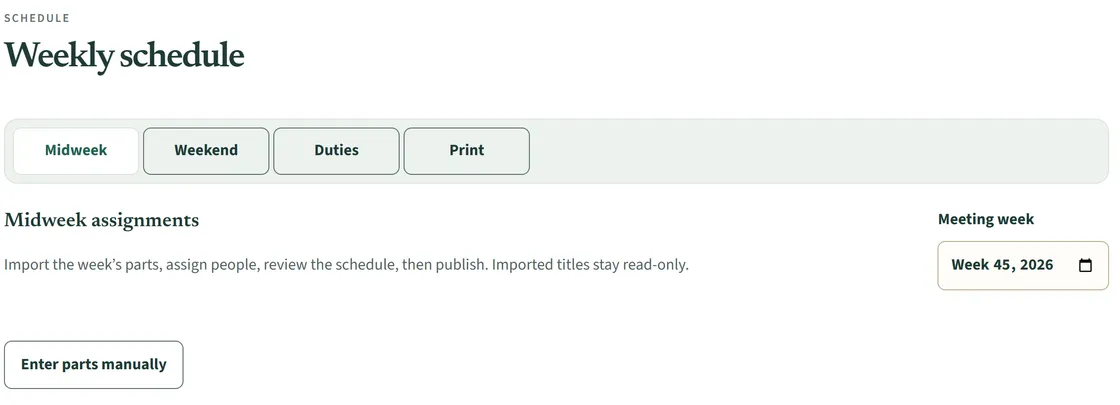
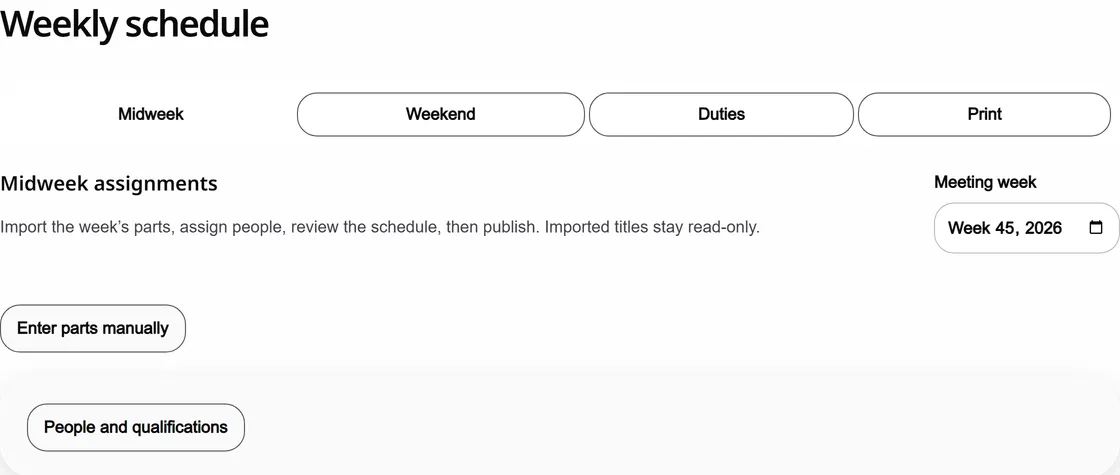
feat: monochrome website with an animated dot field
Black, grey and white tokens follow the app's Eclipse themes and use Noto
Sans only, the same file as the app redesign branch. A canvas dot field moves
behind every page: a slow wave, scroll parallax and ripples from taps, with
automatic ripples when idle so it is alive on phones. It pauses in hidden
tabs and stays still under reduced motion. Screens are recaptured from the
redesign build in Eclipse.

diff --git a/apps/site/site.js b/apps/site/site.js
@@ -1,1 +1,1 @@
-(()=>{'use strict';const root=new URL('.',document.currentScript.src),html=document.documentElement,languages=['en'];html.classList.add('js');let theme='mono-light';try{theme=localStorage.getItem('ca-site-theme')||(matchMedia('(prefers-color-scheme: dark)').matches?'mono-dark':'mono-light');}catch{}html.dataset.theme=theme==='mono-dark'?'mono-dark':'mono-light';const toggle=document.querySelector('[data-theme-toggle]');const updateLabel=()=>{toggle?.setAttribute('aria-label',html.dataset.theme==='mono-dark'?'Use light appearance':'Use dark appearance');toggle?.setAttribute('aria-pressed',String(html.dataset.theme==='mono-dark'));};updateLabel();toggle?.addEventListener('click',()=>{html.dataset.theme=html.dataset.theme==='mono-dark'?'mono-light':'mono-dark';try{localStorage.setItem('ca-site-theme',html.dataset.theme);}catch{}updateLabel();});document.querySelectorAll('[data-lang]').forEach(link=>link.addEventListener('click',()=>{try{localStorage.setItem('ca-site-language',link.dataset.lang);}catch{}}));try{const suggested=navigator.language.split('-')[0],seen=localStorage.getItem('ca-language-suggestion-seen'),chosen=localStorage.getItem('ca-site-language');if(chosen&&chosen!=='en'&&languages.includes(chosen)&&location.pathname===root.pathname){location.replace(new URL(chosen+'/',root));return;}if(!seen&&!chosen&&suggested!==html.lang&&languages.includes(suggested)){const banner=document.createElement('aside');banner.className='wrap browser-language';const text=document.createElement('span');text.textContent='Would you prefer this website in your browser’s language?';const link=document.createElement('a');link.className='button';link.href=new URL(suggested==='en'?'':suggested+'/',root);link.textContent=document.querySelector('[data-lang="'+suggested+'"]')?.textContent||suggested;link.addEventListener('click',()=>localStorage.setItem('ca-site-language',suggested));const close=document.createElement('button');close.type='button';close.textContent='Dismiss';close.addEventListener('click',()=>banner.remove());banner.append(text,link,close);document.querySelector('.site-header')?.after(banner);localStorage.setItem('ca-language-suggestion-seen','true');}}catch{}const menu=document.querySelector('.mobile-menu-toggle'),nav=document.querySelector('#site-navigation');const closeMenu=()=>{menu?.setAttribute('aria-expanded','false');nav?.classList.remove('is-open');};menu?.addEventListener('click',()=>{const open=menu.getAttribute('aria-expanded')!=='true';menu.setAttribute('aria-expanded',String(open));nav.classList.toggle('is-open',open);if(open)nav.querySelector('a')?.focus();});document.addEventListener('keydown',event=>{if(menu?.getAttribute('aria-expanded')!=='true')return;if(event.key==='Escape'){closeMenu();menu.focus();}if(event.key==='Tab'){const items=[menu,...nav.querySelectorAll('a')],first=items[0],last=items.at(-1);if(event.shiftKey&&document.activeElement===first){event.preventDefault();last.focus();}else if(!event.shiftKey&&document.activeElement===last){event.preventDefault();first.focus();}}});nav?.addEventListener('click',event=>{if(event.target.closest('a'))closeMenu();});const reduced=matchMedia('(prefers-reduced-motion: reduce)').matches;if('IntersectionObserver'in window){const observer=new IntersectionObserver(entries=>entries.forEach(entry=>{if(entry.isIntersecting){entry.target.classList.add('revealed');observer.unobserve(entry.target);}}),{threshold:.08});document.fonts.ready.then(()=>{document.querySelectorAll('.reveal').forEach(el=>{if(el.getBoundingClientRect().top<innerHeight+120)el.classList.add('revealed');else observer.observe(el);});html.classList.add('reveal-ready');});}else document.querySelectorAll('.reveal').forEach(el=>el.classList.add('revealed'));if(!reduced&&matchMedia('(pointer:fine)').matches){const composition=document.querySelector('.device-composition');composition?.addEventListener('pointermove',event=>{const b=composition.getBoundingClientRect(),x=(event.clientX-b.left)/b.width-.5,y=(event.clientY-b.top)/b.height-.5;composition.style.transform='rotateY('+(x*2)+'deg) rotateX('+(-y*2)+'deg)';});composition?.addEventListener('pointerleave',()=>composition.style.transform='');}const story=document.querySelector('[data-story-screen]');if(story&&'IntersectionObserver'in window){const observer=new IntersectionObserver(entries=>{for(const entry of entries)if(entry.isIntersecting){const source=entry.target.dataset.storySource;if(source)story.src=source;}},{rootMargin:'-25% 0px -40% 0px'});document.querySelectorAll('[data-story-source]').forEach(el=>observer.observe(el));}const stage=document.querySelector('.stage');if(stage){const show=id=>{stage.querySelectorAll('[data-stage-screen]').forEach(el=>el.toggleAttribute('data-active',el.dataset.stageScreen===id));stage.querySelectorAll('[data-stage-tab]').forEach(el=>el.setAttribute('aria-pressed',String(el.dataset.stageTab===id)));};stage.querySelectorAll('[data-stage-tab]').forEach(el=>el.addEventListener('click',()=>show(el.dataset.stageTab)));if('IntersectionObserver'in window){const steps=new IntersectionObserver(entries=>{for(const entry of entries)if(entry.isIntersecting)show(entry.target.dataset.stageStep);},{rootMargin:'-45% 0px -45% 0px'});document.querySelectorAll('[data-stage-step]').forEach(el=>steps.observe(el));}}document.querySelector('form[data-contact]')?.addEventListener('submit',event=>{event.preventDefault();const data=new FormData(event.currentTarget),subject=String(data.get('subject')||'Congregation Assistant enquiry'),body=String(data.get('body')||'');location.href='mailto:'+event.currentTarget.dataset.email+'?subject='+encodeURIComponent(subject)+'&body='+encodeURIComponent(body);});})();
+(()=>{'use strict';const root=new URL('.',document.currentScript.src),html=document.documentElement,languages=['en'];html.classList.add('js');let theme='mono-light';try{theme=localStorage.getItem('ca-site-theme')||(matchMedia('(prefers-color-scheme: dark)').matches?'mono-dark':'mono-light');}catch{}html.dataset.theme=theme==='mono-dark'?'mono-dark':'mono-light';const toggle=document.querySelector('[data-theme-toggle]');const updateLabel=()=>{toggle?.setAttribute('aria-label',html.dataset.theme==='mono-dark'?'Use light appearance':'Use dark appearance');toggle?.setAttribute('aria-pressed',String(html.dataset.theme==='mono-dark'));};updateLabel();toggle?.addEventListener('click',()=>{html.dataset.theme=html.dataset.theme==='mono-dark'?'mono-light':'mono-dark';try{localStorage.setItem('ca-site-theme',html.dataset.theme);}catch{}updateLabel();});document.querySelectorAll('[data-lang]').forEach(link=>link.addEventListener('click',()=>{try{localStorage.setItem('ca-site-language',link.dataset.lang);}catch{}}));try{const suggested=navigator.language.split('-')[0],seen=localStorage.getItem('ca-language-suggestion-seen'),chosen=localStorage.getItem('ca-site-language');if(chosen&&chosen!=='en'&&languages.includes(chosen)&&location.pathname===root.pathname){location.replace(new URL(chosen+'/',root));return;}if(!seen&&!chosen&&suggested!==html.lang&&languages.includes(suggested)){const banner=document.createElement('aside');banner.className='wrap browser-language';const text=document.createElement('span');text.textContent='Would you prefer this website in your browser’s language?';const link=document.createElement('a');link.className='button';link.href=new URL(suggested==='en'?'':suggested+'/',root);link.textContent=document.querySelector('[data-lang="'+suggested+'"]')?.textContent||suggested;link.addEventListener('click',()=>localStorage.setItem('ca-site-language',suggested));const close=document.createElement('button');close.type='button';close.textContent='Dismiss';close.addEventListener('click',()=>banner.remove());banner.append(text,link,close);document.querySelector('.site-header')?.after(banner);localStorage.setItem('ca-language-suggestion-seen','true');}}catch{}const menu=document.querySelector('.mobile-menu-toggle'),nav=document.querySelector('#site-navigation');const closeMenu=()=>{menu?.setAttribute('aria-expanded','false');nav?.classList.remove('is-open');};menu?.addEventListener('click',()=>{const open=menu.getAttribute('aria-expanded')!=='true';menu.setAttribute('aria-expanded',String(open));nav.classList.toggle('is-open',open);if(open)nav.querySelector('a')?.focus();});document.addEventListener('keydown',event=>{if(menu?.getAttribute('aria-expanded')!=='true')return;if(event.key==='Escape'){closeMenu();menu.focus();}if(event.key==='Tab'){const items=[menu,...nav.querySelectorAll('a')],first=items[0],last=items.at(-1);if(event.shiftKey&&document.activeElement===first){event.preventDefault();last.focus();}else if(!event.shiftKey&&document.activeElement===last){event.preventDefault();first.focus();}}});nav?.addEventListener('click',event=>{if(event.target.closest('a'))closeMenu();});const reduced=matchMedia('(prefers-reduced-motion: reduce)').matches;if('IntersectionObserver'in window){const observer=new IntersectionObserver(entries=>entries.forEach(entry=>{if(entry.isIntersecting){entry.target.classList.add('revealed');observer.unobserve(entry.target);}}),{threshold:.08});document.fonts.ready.then(()=>{document.querySelectorAll('.reveal').forEach(el=>{if(el.getBoundingClientRect().top<innerHeight+120)el.classList.add('revealed');else observer.observe(el);});html.classList.add('reveal-ready');});}else document.querySelectorAll('.reveal').forEach(el=>el.classList.add('revealed'));if(!reduced&&matchMedia('(pointer:fine)').matches){const composition=document.querySelector('.device-composition');composition?.addEventListener('pointermove',event=>{const b=composition.getBoundingClientRect(),x=(event.clientX-b.left)/b.width-.5,y=(event.clientY-b.top)/b.height-.5;composition.style.transform='rotateY('+(x*2)+'deg) rotateX('+(-y*2)+'deg)';});composition?.addEventListener('pointerleave',()=>composition.style.transform='');}const story=document.querySelector('[data-story-screen]');if(story&&'IntersectionObserver'in window){const observer=new IntersectionObserver(entries=>{for(const entry of entries)if(entry.isIntersecting){const source=entry.target.dataset.storySource;if(source)story.src=source;}},{rootMargin:'-25% 0px -40% 0px'});document.querySelectorAll('[data-story-source]').forEach(el=>observer.observe(el));}const stage=document.querySelector('.stage');if(stage){const show=id=>{stage.querySelectorAll('[data-stage-screen]').forEach(el=>el.toggleAttribute('data-active',el.dataset.stageScreen===id));stage.querySelectorAll('[data-stage-tab]').forEach(el=>el.setAttribute('aria-pressed',String(el.dataset.stageTab===id)));};stage.querySelectorAll('[data-stage-tab]').forEach(el=>el.addEventListener('click',()=>show(el.dataset.stageTab)));if('IntersectionObserver'in window){const steps=new IntersectionObserver(entries=>{for(const entry of entries)if(entry.isIntersecting)show(entry.target.dataset.stageStep);},{rootMargin:'-45% 0px -45% 0px'});document.querySelectorAll('[data-stage-step]').forEach(el=>steps.observe(el));}}const field=document.createElement('canvas'),pen=field.getContext&&field.getContext('2d');if(pen){field.className='field-canvas';field.setAttribute('aria-hidden','true');document.body.prepend(field);let w=0,h=0,gap=24,rgb='10,10,10',ripples=[],pointer=null,lastTouch=-1e4,lastAuto=0,frame=0;const start=performance.now(),still=reduced;const colour=()=>{rgb=getComputedStyle(html).getPropertyValue('--dot').trim()||rgb;};const size=()=>{const ratio=Math.min(devicePixelRatio||1,2);w=innerWidth;h=innerHeight;field.width=Math.round(w*ratio);field.height=Math.round(h*ratio);pen.setTransform(ratio,0,0,ratio,0,0);gap=w<600?20:26;};const paint=now=>{const t=still?4:(now-start)/1000,shift=scrollY*.3,offset=-(shift%gap),buckets=Array.from({length:12},()=>new Path2D());pen.clearRect(0,0,w,h);if(!still){if(now-lastTouch>6000&&now-lastAuto>3200){lastAuto=now;ripples.push({x:Math.random()*w,y:Math.random()*h*.8,s:now});}ripples=ripples.filter(r=>now-r.s<2600).slice(-6);}for(let y=offset+gap/2;y<h+gap;y+=gap){const world=y+shift;for(let x=gap/2;x<w;x+=gap){let n=(Math.sin(x*.011+t*.5)+Math.sin(world*.013-t*.4)+Math.sin((x-world)*.007+t*.3)+3)/6;n=n*n*n;let lift=0;for(const r of ripples){const age=(now-r.s)/1000,d=Math.hypot(x-r.x,y-r.y)-age*260;lift+=Math.exp(-(d*d)/1300)*(1-age/2.6);}if(pointer){const dx=x-pointer.x,dy=y-pointer.y;lift+=Math.exp(-(dx*dx+dy*dy)/24000)*.7;}const level=Math.min(11,Math.round((n*.7+lift*.9)*11)),radius=.7+n*1.5+lift*2;buckets[level].moveTo(x+radius,y);buckets[level].arc(x,y,radius,0,6.2832);}}buckets.forEach((path,i)=>{pen.fillStyle='rgba('+rgb+','+(.07+i*.034).toFixed(3)+')';pen.fill(path);});};const loop=now=>{paint(now);frame=document.hidden?0:requestAnimationFrame(loop);};colour();size();addEventListener('resize',()=>{size();if(still)paint(0);},{passive:true});new MutationObserver(()=>{colour();if(still)paint(0);}).observe(html,{attributes:true,attributeFilter:['data-theme']});if(still)paint(0);else{addEventListener('pointerdown',event=>{lastTouch=performance.now();ripples.push({x:event.clientX,y:event.clientY,s:lastTouch});},{passive:true});addEventListener('pointermove',event=>{if(event.pointerType==='mouse')pointer={x:event.clientX,y:event.clientY};},{passive:true});document.addEventListener('pointerleave',()=>{pointer=null;});document.addEventListener('visibilitychange',()=>{if(!document.hidden&&!frame)frame=requestAnimationFrame(loop);});frame=requestAnimationFrame(loop);}}document.querySelector('form[data-contact]')?.addEventListener('submit',event=>{event.preventDefault();const data=new FormData(event.currentTarget),subject=String(data.get('subject')||'Congregation Assistant enquiry'),body=String(data.get('body')||'');location.href='mailto:'+event.currentTarget.dataset.email+'?subject='+encodeURIComponent(subject)+'&body='+encodeURIComponent(body);});})();

diff --git a/apps/site/site.css b/apps/site/site.css
@@ -1,9 +1,10 @@
-/* Public website. Shares the V4 app's visual language: paper (light) and forest (dark) theme tokens,
-   Newsreader display, Source Sans 3 text, forest accent, quiet panels. The data-theme names
+/* Public website. Monochrome: the app's Eclipse pair (black, greys, white) with Noto Sans, the app's
+   one typeface. A canvas dot field (site.js) moves behind the page. The data-theme names
    mono-light / mono-dark are kept for the site's toggle and stored preference. */
-:root,[data-theme=mono-light]{color-scheme:light;--paper:#f5f6f3;--panel:#fff;--soft:#edf2ef;--ink:#203b36;--muted:#50635e;--line:#dce4df;--accent:#226353;--on-accent:#fff;--field:#226353;--on-field:#fff;--on-field-muted:#d7e8e0;--shadow-float:0 24px 60px #0f2a2333}
-[data-theme=mono-dark]{color-scheme:dark;--paper:#13221f;--panel:#1a2d28;--soft:#1a2d28;--ink:#eef5ef;--muted:#c2d4cb;--line:#365347;--accent:#a4dcc0;--on-accent:#13221f;--field:#243c34;--on-field:#eef5ef;--on-field-muted:#c2d4cb;--shadow-float:0 24px 60px #0008}
-:root{--site-display:'Newsreader','Noto Serif',Georgia,serif;--site-body:'Source Sans 3','Noto Sans',system-ui,sans-serif;--radius-s:8px;--radius-l:18px;--margin:max(24px,calc((100vw - 1240px)/2));--ease:cubic-bezier(.2,.7,.2,1);--step-display:clamp(2.125rem,4.2vw,4.5rem);--step-h2:clamp(2.125rem,3.2vw,3.125rem);--step-h3:clamp(1.375rem,1.8vw,1.75rem);--step-body:1.0625rem;--step-small:.875rem}
+@font-face{font-family:'Noto Sans';src:url('assets/fonts/noto-sans-latin-wght-normal.woff2') format('woff2');font-weight:100 900;font-display:swap;unicode-range:U+0000-00FF,U+0131,U+0152-0153,U+02BB-02BC,U+02C6,U+02DA,U+02DC,U+0304,U+0308,U+0329,U+2000-206F,U+2074,U+20AC,U+2122,U+2191,U+2193,U+2212,U+2215,U+FEFF,U+FFFD}
+:root,[data-theme=mono-light]{color-scheme:light;--paper:#fafafa;--panel:#fff;--soft:#f0f0f0;--ink:#0a0a0a;--muted:#595959;--line:#e3e3e3;--accent:#0a0a0a;--on-accent:#fafafa;--field:#0a0a0a;--on-field:#fafafa;--on-field-muted:#b3b3b3;--dot:10,10,10;--shadow-float:0 24px 60px #0000002e}
+[data-theme=mono-dark]{color-scheme:dark;--paper:#0a0a0a;--panel:#161616;--soft:#141414;--ink:#f5f5f5;--muted:#a6a6a6;--line:#2b2b2b;--accent:#f5f5f5;--on-accent:#0a0a0a;--field:#1a1a1a;--on-field:#f5f5f5;--on-field-muted:#a6a6a6;--dot:245,245,245;--shadow-float:0 24px 60px #000a}
+:root{--site-display:'Noto Sans',system-ui,sans-serif;--site-body:'Noto Sans',system-ui,sans-serif;--radius-s:12px;--radius-l:28px;--radius-pill:999px;--margin:max(24px,calc((100vw - 1240px)/2));--ease:cubic-bezier(.2,.7,.2,1);--step-display:clamp(2.125rem,4.2vw,4.5rem);--step-h2:clamp(2rem,3.2vw,3rem);--step-h3:clamp(1.25rem,1.7vw,1.625rem);--step-body:1.0625rem;--step-small:.875rem}
 
 *{box-sizing:border-box}
 html{scroll-behavior:smooth;-webkit-text-size-adjust:100%}
@@ -14,10 +15,10 @@ button,input,textarea{font:inherit;color:inherit}
 :focus-visible{outline:3px solid var(--accent);outline-offset:3px}
 svg{width:20px;height:20px;flex:none}
 img{display:block;max-width:100%;height:auto}
-h1,h2,h3{font-family:var(--site-display);font-weight:600;line-height:1.05;letter-spacing:-.02em;text-wrap:balance;margin:0 0 24px;overflow-wrap:anywhere}
+h1,h2,h3{font-family:var(--site-display);font-weight:650;line-height:1.04;letter-spacing:-.035em;text-wrap:balance;margin:0 0 24px;overflow-wrap:anywhere}
 h1{font-size:var(--step-display)}
 h2{font-size:var(--step-h2)}
-h3{font-size:var(--step-h3);line-height:1.15}
+h3{font-size:var(--step-h3);line-height:1.2;letter-spacing:-.02em}
 p{margin:0 0 16px;text-wrap:pretty;overflow-wrap:anywhere}
 ul,ol{padding-inline-start:24px}
 li{margin-block:8px}
@@ -27,19 +28,21 @@ input,textarea{width:100%;min-height:48px;padding:12px 14px;font-size:1rem;backg
 textarea{min-height:144px}
 .wrap{width:100%;max-width:calc(1240px + 48px);margin-inline:auto;padding-inline:24px;min-width:0}
 
-/* Buttons: the app's shape and shades. */
-button,.button{display:inline-flex;align-items:center;justify-content:center;gap:10px;min-height:48px;min-width:44px;padding:12px 22px;border:1px solid var(--line);border-radius:var(--radius-s);background:var(--panel);color:var(--ink);font-weight:600;text-decoration:none;cursor:pointer;touch-action:manipulation;transition:transform .15s var(--ease),background-color .2s,border-color .2s}
+/* Buttons: the app's pill shape. */
+button,.button{display:inline-flex;align-items:center;justify-content:center;gap:10px;min-height:48px;min-width:44px;padding:12px 24px;border:1px solid var(--line);border-radius:var(--radius-pill);background:var(--panel);color:var(--ink);font-weight:600;text-decoration:none;cursor:pointer;touch-action:manipulation;transition:transform .15s var(--ease),background-color .2s,border-color .2s}
 .button.primary,.primary{background:var(--accent);border-color:var(--accent);color:var(--on-accent)}
-@media(hover:hover){.button:hover,button:hover{border-color:var(--ink);text-decoration:none}.button.primary:hover{border-color:var(--ink);background:color-mix(in srgb,var(--accent) 88%,var(--ink))}}
+@media(hover:hover){.button:hover,button:hover{border-color:var(--ink);text-decoration:none}.button.primary:hover{background:color-mix(in srgb,var(--accent) 84%,var(--paper))}}
 .button:active,button:active{transform:scale(.98)}
+.button{max-width:100%;min-width:0;text-align:center;overflow-wrap:anywhere}
 
 /* Header */
-.skip-link{position:absolute;top:-100px;left:16px;z-index:50;background:var(--panel);padding:12px 16px;border-radius:var(--radius-s)}
+.skip-link{position:absolute;top:-100px;left:16px;z-index:50;background:var(--panel);color:var(--ink);padding:12px 16px;border-radius:var(--radius-s)}
 .skip-link:focus{top:8px}
-.site-header{position:relative;z-index:20;background:var(--paper)}
+.site-header{position:relative;z-index:20}
+.field-canvas{position:fixed;inset:0;width:100%;height:100%;z-index:-1;pointer-events:none}
 .header-inner{display:flex;align-items:center;flex-wrap:wrap;gap:16px 32px;min-height:80px;padding-block:12px}
 .wordmark{display:inline-flex;align-items:center;gap:12px;min-height:44px;font-weight:650;font-size:1.0625rem;text-decoration:none;letter-spacing:-.01em}
-.wordmark svg{width:40px;height:40px;padding:8px;border-radius:12px;background:var(--accent);color:var(--on-accent)}
+.wordmark svg{width:40px;height:40px;padding:9px;border-radius:50%;background:var(--accent);color:var(--on-accent)}
 .nav{display:flex;align-items:center;flex-wrap:wrap;gap:4px 28px;margin-inline-start:auto}
 .nav>a:not(.button){display:inline-flex;align-items:center;min-height:44px;font-size:1rem;text-decoration:none}
 .nav>a:not(.button):hover{text-decoration:underline}
@@ -72,7 +75,7 @@ button,.button{display:inline-flex;align-items:center;justify-content:center;gap
 .stage-frame{position:relative;height:100%;max-height:780px;aspect-ratio:390/844;align-self:center}
 .stage-screen{position:absolute;inset:0;opacity:0;transform:scale(.985);transition:opacity .7s var(--ease),transform .9s var(--ease)}
 .stage-screen[data-active]{opacity:1;transform:none}
-.stage-screen img{width:100%;height:100%;object-fit:cover;object-position:top;border-radius:28px;background:#fff}
+.stage-screen img{width:100%;height:100%;object-fit:cover;object-position:top;border-radius:32px;background:#fff}
 .stage-tabs{display:flex;gap:8px;margin-top:24px}
 .stage-tabs button{min-height:44px;padding:8px 18px;background:transparent;border-color:transparent;color:var(--on-field);font-weight:600}
 .stage-tabs button[aria-pressed=true]{background:var(--on-field);color:var(--field)}
@@ -87,7 +90,7 @@ button,.button{display:inline-flex;align-items:center;justify-content:center;gap
 .tools{display:grid;gap:96px}
 .tool{display:grid;grid-template-columns:minmax(0,7fr) minmax(0,5fr);gap:32px 64px;align-items:center}
 .tool-picture{background:var(--soft);border-radius:var(--radius-l);padding:clamp(16px,2.4vw,32px);overflow:hidden}
-.tool-picture img{width:100%;border-radius:10px;border:1px solid var(--line)}
+.tool-picture img{width:100%;border-radius:16px}
 .tool-copy p{font-size:1.125rem;max-width:28em}
 .more-tools{list-style:none;padding:0;margin:120px 0 0;display:grid;grid-template-columns:repeat(3,minmax(0,1fr));gap:40px 48px}
 .more-tools li{margin:0}
@@ -101,7 +104,7 @@ button,.button{display:inline-flex;align-items:center;justify-content:center;gap
 .trust-answers h3{font-size:1.25rem;font-weight:650;letter-spacing:0;margin-bottom:8px}
 .trust-answers p{font-size:1.125rem;margin:0;max-width:34em}
 .pricing-layout{display:grid;grid-template-columns:minmax(0,5fr) minmax(0,7fr);gap:32px 96px;align-items:start}
-.pricing-figure .price{font:600 clamp(2rem,12vw,7rem)/1 var(--site-display);letter-spacing:-.03em;margin-bottom:24px}
+.pricing-figure .price{font:650 clamp(2rem,12vw,7rem)/1 var(--site-display);letter-spacing:-.05em;margin-bottom:24px}
 .price small{font:400 1.25rem var(--site-body);letter-spacing:0;color:var(--muted)}
 .pricing-figure p:not(.price){font-size:1.125rem;max-width:32em}
 .pricing-figure .button{margin-top:16px}
@@ -116,7 +119,7 @@ button,.button{display:inline-flex;align-items:center;justify-content:center;gap
 .closing-copy p{font-size:1.25rem;color:var(--on-field-muted);max-width:26em;margin:0}
 .signin-card{justify-self:end;width:100%;max-width:460px;background:var(--panel);color:var(--ink);border-radius:var(--radius-l);padding:40px;box-shadow:var(--shadow-float)}
 .signin-mark{display:flex;align-items:center;gap:12px;font-weight:650;margin-bottom:32px}
-.signin-logo svg{width:40px;height:40px;padding:8px;border-radius:12px;background:var(--accent);color:var(--on-accent)}
+.signin-logo svg{width:40px;height:40px;padding:9px;border-radius:50%;background:var(--accent);color:var(--on-accent)}
 .signin-card h3{margin-bottom:12px}
 .signin-card p{color:var(--muted)}
 .signin-card .button{width:100%;margin-block:16px}
@@ -141,7 +144,7 @@ button,.button{display:inline-flex;align-items:center;justify-content:center;gap
 .trust-grid{display:grid;grid-template-columns:1fr 1fr;gap:48px}
 .trust-grid h3{font:650 1.125rem/1.5 var(--site-body);letter-spacing:0;margin-bottom:8px}
 .pricing{max-width:780px}
-.price{font:600 2.5rem/1.2 var(--site-display);margin-block:16px}
+.price{font:650 2.5rem/1.2 var(--site-display);margin-block:16px}
 .faq{max-width:780px}
 .page{padding-block:clamp(56px,8vw,112px)}
 .page h1{font-size:clamp(2.5rem,5vw,4rem)}
@@ -180,7 +183,7 @@ button,.button{display:inline-flex;align-items:center;justify-content:center;gap
  .statements{padding-block:48px 24px;max-width:none}
  .statement{min-height:0;display:grid;grid-template-columns:minmax(0,320px) minmax(0,1fr);gap:24px 48px;align-items:center;padding-block:40px}
  .statement-picture{display:block;grid-row:span 2;background:var(--field);border-radius:var(--radius-l);padding:24px 24px 0;overflow:hidden;max-height:520px}
- .statement-picture img{border-radius:20px 20px 0 0}
+ .statement-picture img{border-radius:24px 24px 0 0}
  .statement h3{align-self:end;margin-bottom:0}
  .statement p{align-self:start}
  .tools-head,.trust-layout,.pricing-layout,.faq-layout,.closing-layout{grid-template-columns:minmax(0,1fr)}
@@ -201,7 +204,9 @@ button,.button{display:inline-flex;align-items:center;justify-content:center;gap
 }
 @media(max-width:599px){
  .wrap,.stage-copy{padding-inline:16px}
- .wordmark{font-size:1rem;gap:10px}
+ .wordmark{font-size:.9375rem;gap:10px}
+ .header-inner{gap:8px}
+ .mobile-menu-toggle{padding:10px 16px}
  .wordmark svg{width:36px;height:36px;padding:7px}
  .hero-copy-block{padding-block:48px 32px}
  .lead,.hero-copy,.tools-head p,.closing-copy p{font-size:1.125rem}

diff --git a/docs/V4-RELEASE.md b/docs/V4-RELEASE.md
@@ -41,3 +41,12 @@ Owner request: redesign the public landing page to match the application. Websit
 - Entrance motion only hides content that is off screen once fonts have loaded, and hiding is instant, so Axe never measures half-faded text; reduced motion shows everything.
 
 Evidence (local, Windows): initial gzip payload 98,945 bytes (limit 204,800). `site-audit.mjs` on the built tree with an `app/` stub: 224 pages, 0 failures (without the stub only the cross-tree `/app/` links fail, as before). `site-audit-browser.mjs`: 1,672 views, 0 failures. `check-marketing-site.cjs` (run from a copy with `path.sep` for Windows): PASS. `check-site-browser.cjs` Axe/overflow: 84 views, 0 failures on real routes; `data-processing/` and `cookies/` fall back to `404.html`, whose stylesheet is loaded from the absolute Pages URL and blocked by CSP on a local server (no CSS loads, old or new), so they overflow locally only. `check-claims.mjs`: PASS. Vercel guideline audit: 0 HARD.
+
+## Monochrome website — 2026-11-02
+Owner request: a minimal black/grey/white website with background animation that works on phones. Website only.
+- Tokens follow the app's Eclipse pair from branch `redesign/v4-four-themes` (four themes, Noto Sans everywhere): `#fafafa`/`#0a0a0a` grounds, grey steps, black or white accent, pill buttons, 28 px panels, Noto Sans only (`assets/fonts/noto-sans-latin-wght-normal.woff2`, the same file as that branch).
+- A fixed canvas dot field (`site.js`) runs behind every page: a slow interference wave, scroll parallax, ripples from taps/clicks, automatic ripples after six idle seconds, and a soft lift under a mouse pointer. It is capped at 2x pixel ratio, batches dots into 12 alpha paths per frame, stops when the tab is hidden, draws one still frame under reduced motion, and follows the light/dark toggle.
+- Screens in `apps/site/assets/app/` were recaptured from that branch's Pages build in the Eclipse theme (fictional demo data). The assistant crop was dropped because its layout moved. The "Themes and comfort" copy no longer claims nine themes.
+- Initial gzip payload: 49,064 bytes (was 98,945), because only one font file is preloaded.
+
+Evidence (local, Windows, same method as above): site audit 224 pages, 0 failures; overflow audit 1,672 views, 0 failures (a 2 px Malayalam button overflow at 320 px / 2x was fixed by letting button labels wrap); marketing check PASS; Axe/overflow 84 views, 0 failures on real routes; claims check PASS. Deploy this together with or after the app redesign, because the screenshots show that design.
